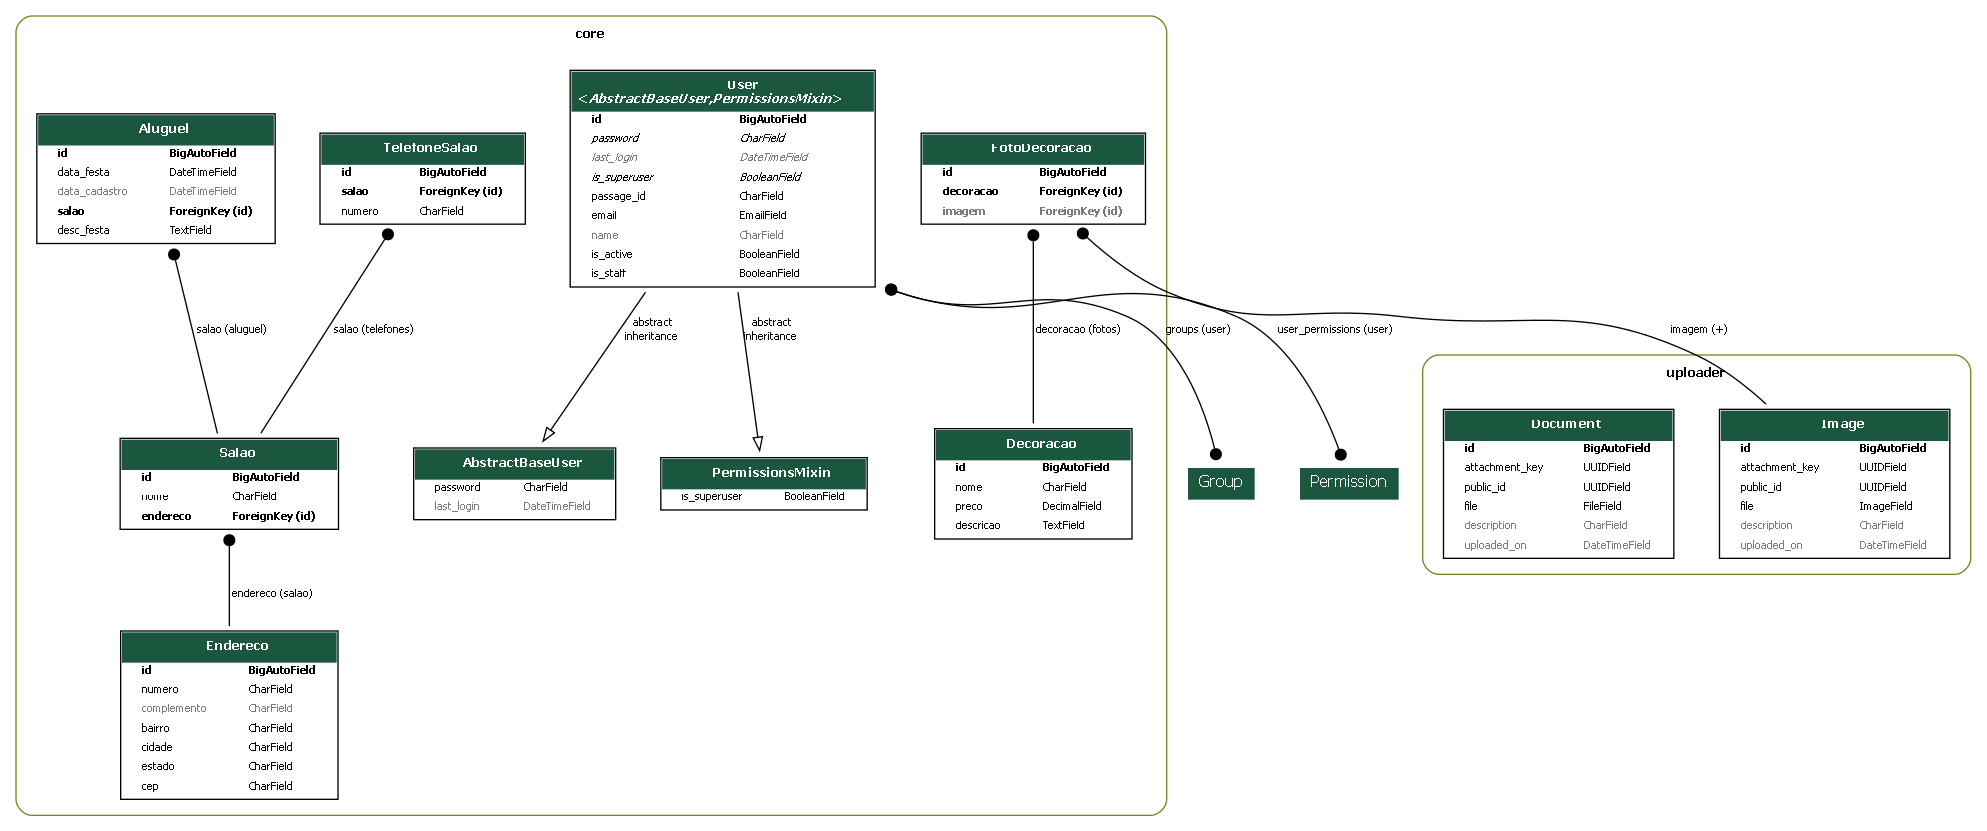
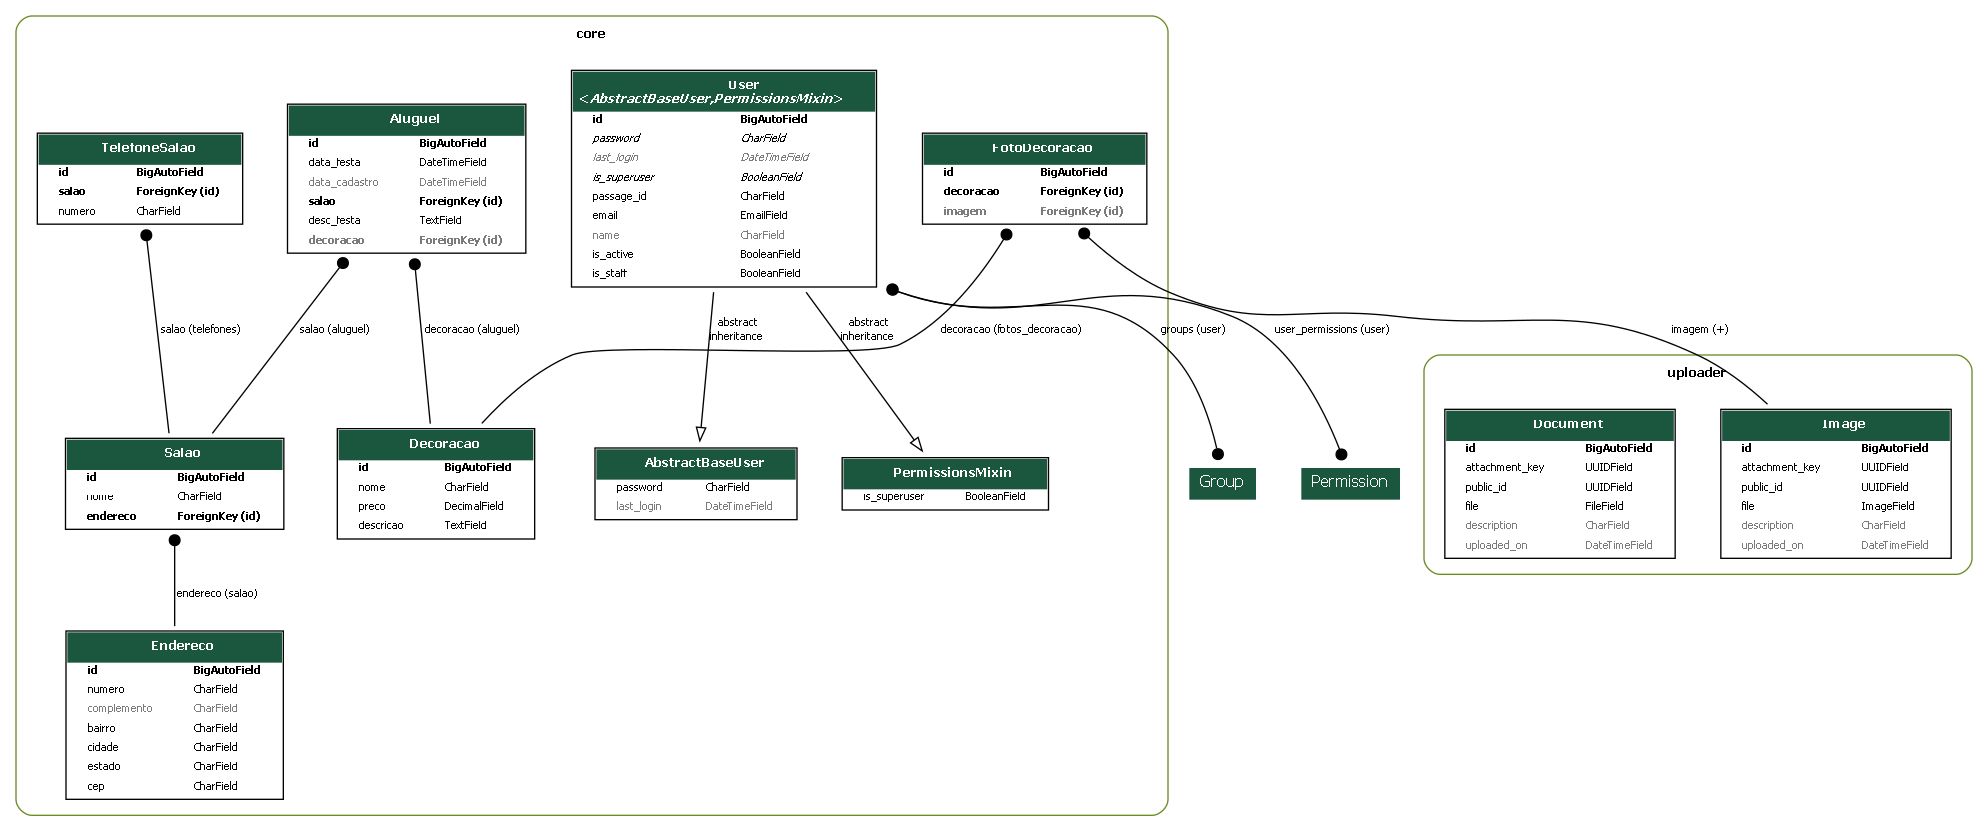
FEAT: adicionado o campo da decoração no aluguel #3

diff --git a/core/migrations/0012_aluguel_decoracao_alter_fotodecoracao_decoracao_and_more.py b/core/migrations/0012_aluguel_decoracao_alter_fotodecoracao_decoracao_and_more.py
@@ -1,0 +1,30 @@
+# Generated by Django 5.2 on 2025-04-22 11:40
+
+import django.db.models.deletion
+from django.db import migrations, models
+
+
+class Migration(migrations.Migration):
+
+    dependencies = [
+        ('core', '0011_alter_fotodecoracao_imagem'),
+        ('uploader', '0001_initial'),
+    ]
+
+    operations = [
+        migrations.AddField(
+            model_name='aluguel',
+            name='decoracao',
+            field=models.ForeignKey(blank=True, null=True, on_delete=django.db.models.deletion.PROTECT, to='core.decoracao', verbose_name='Decoração'),
+        ),
+        migrations.AlterField(
+            model_name='fotodecoracao',
+            name='decoracao',
+            field=models.ForeignKey(on_delete=django.db.models.deletion.CASCADE, related_name='fotos_decoracao', to='core.decoracao', verbose_name='Decoração'),
+        ),
+        migrations.AlterField(
+            model_name='fotodecoracao',
+            name='imagem',
+            field=models.ForeignKey(blank=True, default=0, null=True, on_delete=django.db.models.deletion.SET_NULL, related_name='+', to='uploader.image', verbose_name='Imagem'),
+        ),
+    ]

diff --git a/core/admin.py b/core/admin.py
@@ -7,7 +7,7 @@ from core import models
 admin.site.register(models.Endereco)
 admin.site.register(models.Aluguel)
 
-# Configuração para adição de imagem ao salao
+# Configuração para adição de imagem a decoração pelo admin
 
 class ImagemInLine(admin.TabularInline):
     model = models.FotoDecoracao
@@ -17,7 +17,7 @@ class DecoracaoAdmin(admin.ModelAdmin):
     inlines = [ImagemInLine]
 admin.site.register(models.Decoracao, DecoracaoAdmin)
 
-# Configuração para adição de numero do saão
+# Configuração para adição de numero do salão pelo admin
 
 class TelefoneInline(admin.TabularInline):
     model = models.TelefoneSalao

diff --git a/core/models/aluguel.py b/core/models/aluguel.py
@@ -5,6 +5,7 @@ class Aluguel(models.Model):
     data_cadastro = models.DateTimeField(auto_now_add=True)
     salao = models.ForeignKey('core.Salao', on_delete=models.PROTECT, verbose_name='Salão')
     desc_festa = models.TextField(verbose_name='Descrição da festa')
+    decoracao = models.ForeignKey('core.Decoracao', on_delete=models.PROTECT, verbose_name='Decoração')
 
     def __str__(self):
         return f'Aluguel no salão {self.salao.id} em {self.data_festa}'
